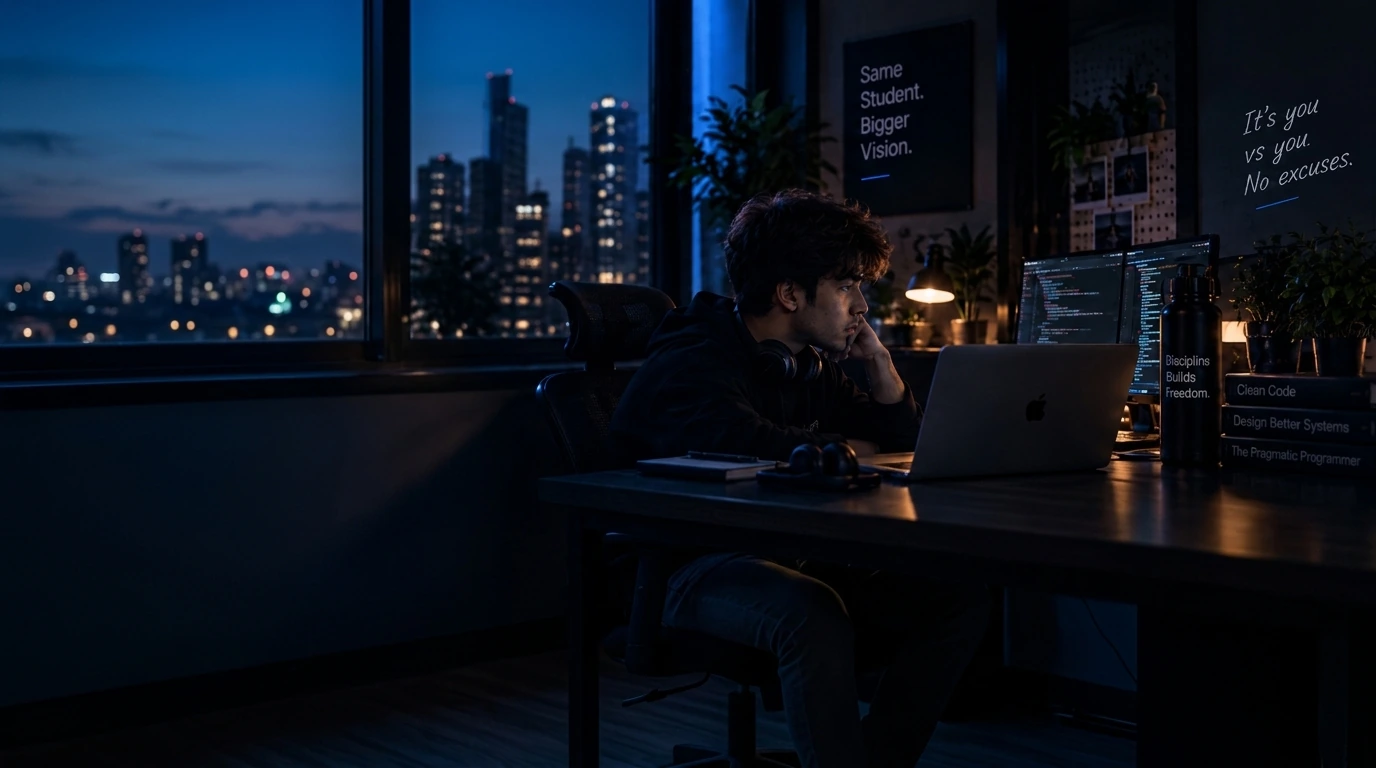
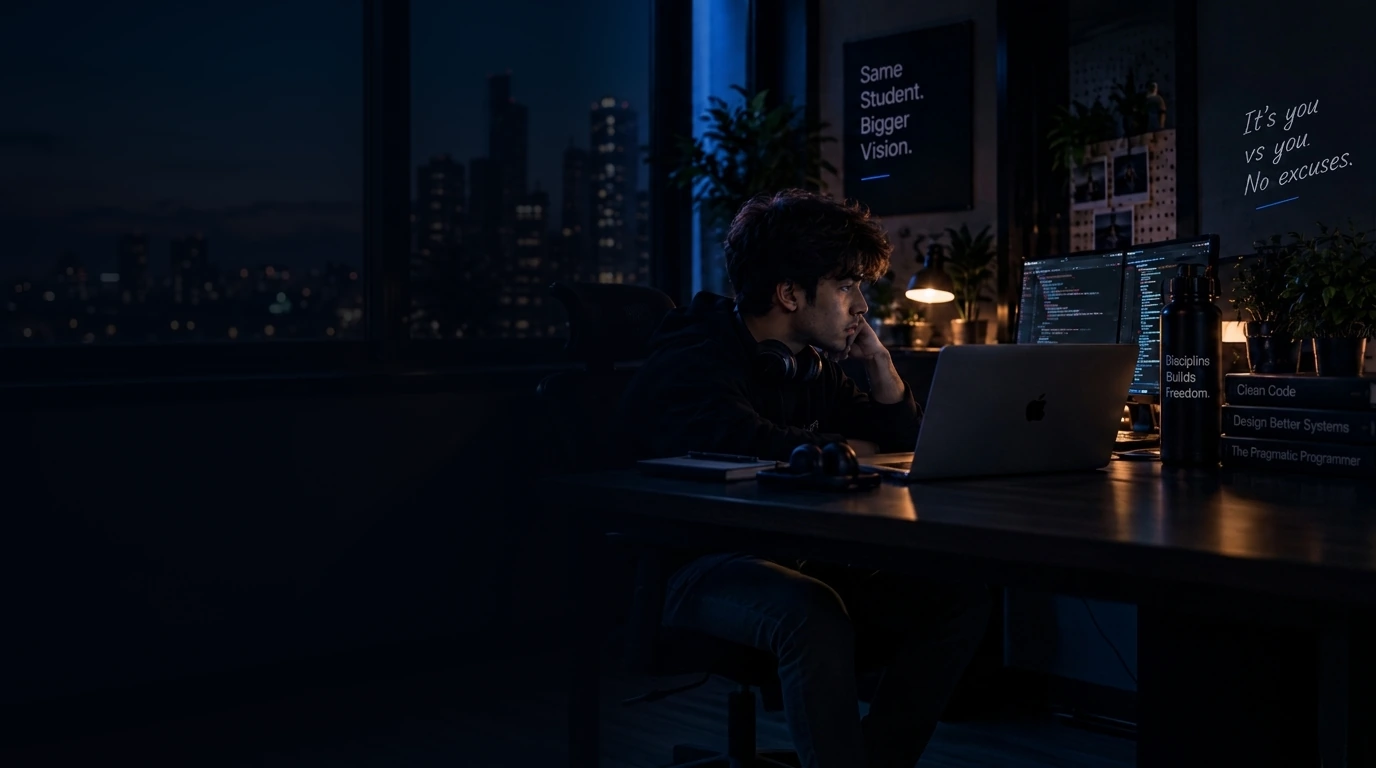
Blend About section with matching dark left side and smooth vertical transitions

diff --git a/src/components/sections/About.jsx b/src/components/sections/About.jsx
@@ -71,7 +71,8 @@ export default function About() {
           className="w-full h-full object-cover object-center opacity-100"
         />
 
-        {/* Soft bottom edge blend into the next section */}
+        {/* Soft top and bottom edge blends for seamless transition between sections */}
+        <div className="absolute top-0 inset-x-0 h-28 bg-gradient-to-b from-zinc-950 via-zinc-950/40 to-transparent pointer-events-none" />
         <div className="absolute bottom-0 inset-x-0 h-24 bg-gradient-to-t from-zinc-950 via-zinc-950/40 to-transparent pointer-events-none" />
       </div>
 
